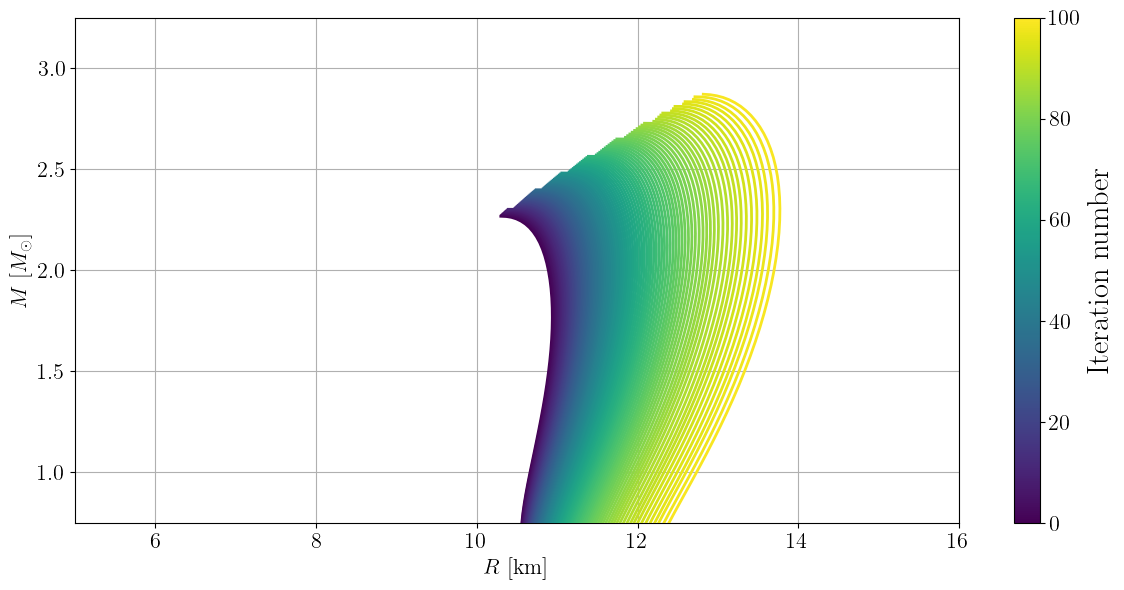
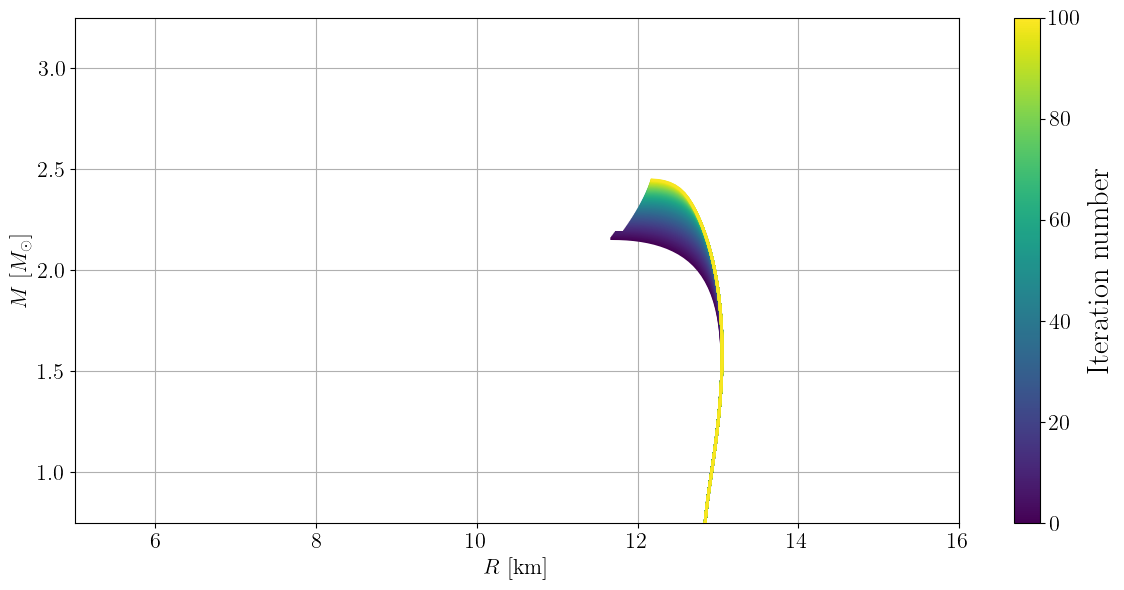
MTOV ascent plot all parameters

Changed region(s): [[0.4359, 0.1525, 0.7162, 0.8847]]

diff --git a/inference/MTOV_ascent.py b/inference/MTOV_ascent.py
@@ -50,7 +50,7 @@ def compute_gradient_ascent(N,
                 params[key] = value.at[0].get()
         macro_params = likelihood.transform.forward(params)
         m, r, l = macro_params["masses_EOS"], macro_params["radii_EOS"], macro_params["Lambdas_EOS"]
-        mtov = jnp.max(m)#.at[0].get()
+        mtov = jnp.max(m)
         return mtov, (m, r, l)
     
     nep_to_MTOV = jax.value_and_grad(nep_to_MTOV, has_aux=True)
@@ -62,7 +62,7 @@ def compute_gradient_ascent(N,
     print("Computing by gradient ascent . . .")
     
     # Get some initial parameters
-    jax_key = jax.random.PRNGKey(45)
+    jax_key = jax.random.PRNGKey(40)
     jax_key, jax_subkey = jax.random.split(jax_key)
     params = prior.sample(jax_subkey, 1)
     
@@ -80,7 +80,7 @@ def compute_gradient_ascent(N,
         
         print(f"Iteration {i}: MTOV = {mtov}")
         # Save results
-        np.savez(f"./computed_data/{i}.npz", masses_EOS = m, radii_EOS = r, L=0.0)
+        np.savez(f"./computed_data/{i}.npz", masses_EOS = m, radii_EOS = r, L=0.0, **params)
         
         params = {key: value + learning_rate * grad[key] for key, value in params.items()}
         
@@ -135,6 +135,71 @@ def plot_eos(N: int,
 
     plt.tight_layout()
     save_name = f"./figures/MTOV_ascent.png" 
+    print(f"Saving to: {save_name}")
+    plt.savefig(save_name, bbox_inches = "tight")
+    plt.close()
+
+    print("DONE")
+    end = time.time()
+    print(f"Time taken: {end - start} s")
+    
+    
+def plot_trajectory(N: int,
+                    plot_keys: list[str] = None):
+    
+    if plot_keys is None:
+        plot_keys = list(utils.NEP_CONSTANTS_DICT.keys())
+    
+    plot_keys.remove("E_sat")
+
+    # Read the EOS data
+    all_masses_EOS = []
+    all_radii_EOS = []
+    all_params = []
+
+    for i in range(N):
+        try:
+            data = np.load(f"./computed_data/{i}.npz")
+            
+            masses_EOS = data["masses_EOS"]
+            radii_EOS = data["radii_EOS"]
+            
+            params = {key: data[key] for key in plot_keys}
+            
+            all_masses_EOS.append(masses_EOS)
+            all_radii_EOS.append(radii_EOS)
+            all_params.append(params)
+            
+        except FileNotFoundError:
+            print(f"File {i} not found")
+            continue
+        
+    # Get the TOV mass:
+    all_masses_EOS = np.array(all_masses_EOS)
+    all_MTOV = np.max(all_masses_EOS, axis=1)
+    
+    norm = mpl.colors.Normalize(vmin=0, vmax=N)
+    cmap = mpl.cm.viridis
+        
+    fig, axs = plt.subplots(nrows = 13, ncols = 2, figsize = (24, 12))
+    colors = [cmap(norm(i)) for i in range(N)]
+    for i, key in enumerate(plot_keys):
+        ax = axs[i//2, i%2]
+        param_data = np.array([params[key] for params in all_params])
+        ax.plot(param_data, all_MTOV, color="red", linewidth = 2.0, zorder=1e10)
+            
+        # sm = mpl.cm.ScalarMappable(cmap=cmap, norm=norm)
+        # sm.set_array([])
+        # cbar = fig.colorbar(sm, ax=ax)
+        # cbar.set_label(r'Iteration number', fontsize = 22)
+            
+        # ax.set_xlim(5, 16)
+        # ax.set_ylim(0.75, 3.25)
+        # ax.set_xlabel(f"Param {key}")
+        # ax.set_ylabel(r"$M_{\rm{TOV}}$ [$M_{\odot}$]")
+
+    plt.tight_layout()
+    save_name = f"./figures/MTOV_ascent_params.png" 
     print(f"Saving to: {save_name}")
     plt.savefig(save_name, bbox_inches = "tight")
     plt.close()
@@ -219,12 +284,17 @@ def main():
                                               transform = transform)
 
     name_mapping = (sampled_param_names, ["masses_EOS", "radii_EOS", "Lambdas_EOS"])
-    compute_gradient_ascent(N, prior=prior, likelihood=likelihood, learning_rate = 0.001)
+    # compute_gradient_ascent(N, prior=prior, likelihood=likelihood, learning_rate = 0.001)
     
     try:
         plot_eos(N)
     except Exception as e:
         print(f"Error in plotting: {e}")
+        
+    # try:
+    plot_trajectory(N)
+    # except Exception as e:
+    #     print(f"Error in plotting: {e}")
     
     print("DONE")
     

diff --git a/inference/utils.py b/inference/utils.py
@@ -95,6 +95,7 @@ NEP_CONSTANTS_DICT = {
     "cs2_CSE_5": 0.6,
     "cs2_CSE_6": 0.9,
     "cs2_CSE_7": 0.8,
+    "cs2_CSE_8": 0.9,
 }
 
 def merge_dicts(dict1: dict, dict2: dict):
